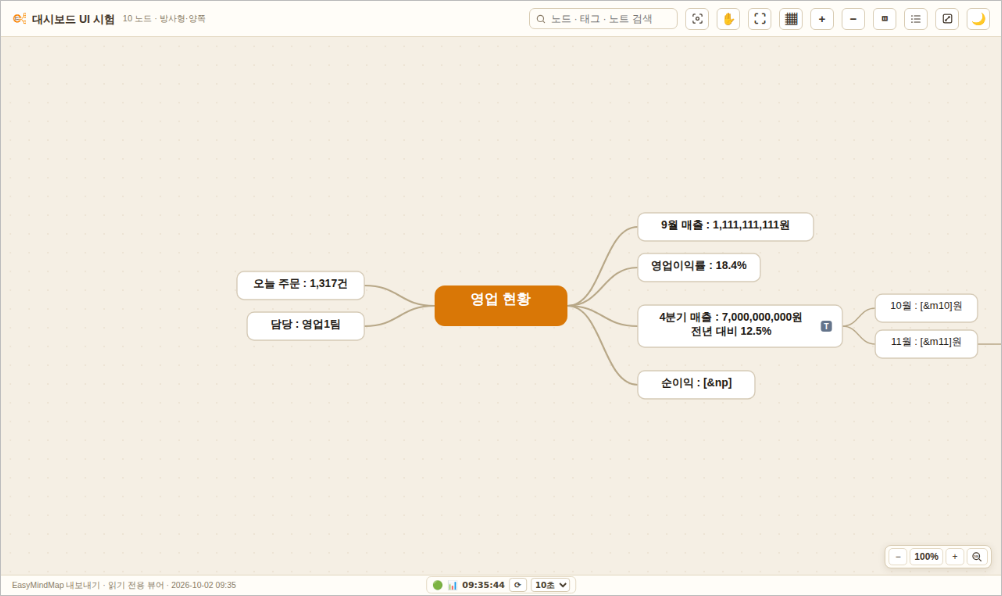
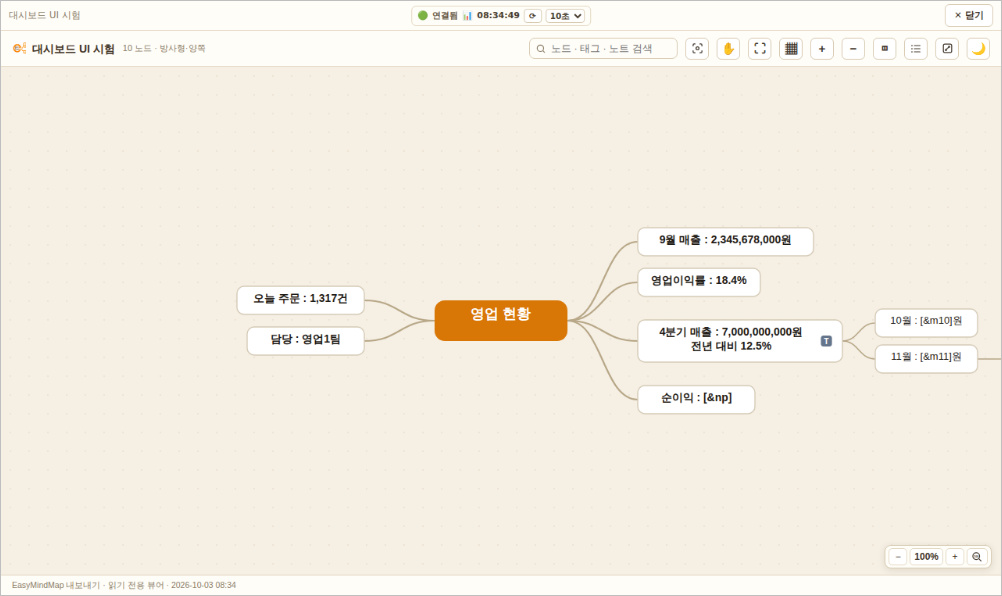
대시보드 공개 화면 — 새 탭은 제목 줄 가운데에 시각·연결 상태 (e2e331) (#615)
* 대시보드 공개 화면 — 새 탭(제목 줄 있음)은 제목 줄 가운데에 시각·연결 상태

- PublicMapPage: ViewerBar 가 있는 탭(isFreshTab)은 갱신 알약을 제목 줄 가운데에
  (data-placement=title) — 🟢 연결됨 · ⏳ 확인 중 · ⚠ 연결 끊김 글을 함께. 제목 줄이 없는
  화면(embed 등)은 그대로 바닥글 가운데. 알약은 한 화면에 하나.
- 22-dashboard v3.7 · 가이드 13 §7.

Claude-Session: https://claude.ai/code/session_01AoGXgGWrXHbWMncuBzWjkj

* docs: 가이드 13 새 탭 그림 · 카탈로그 e2e331 (292차)

Claude-Session: https://claude.ai/code/session_01AoGXgGWrXHbWMncuBzWjkj

---------

diff --git a/apps/frontend/src/pages/PublicMapPage.tsx b/apps/frontend/src/pages/PublicMapPage.tsx
@@ -18,7 +18,7 @@
 //   설령 그 글에서 무언가 새어 나가더라도 **우리 오리진에 닿지 못한다**
 //   (allow-same-origin 을 주지 않는다 — 이 한 줄이 격리의 전부다).
 
-import { useEffect, useMemo, useRef, useState, type CSSProperties } from 'react';
+import { useEffect, useMemo, useRef, useState, type CSSProperties, type ReactNode } from 'react';
 import type { LayoutType, SampleMap } from '@/editor/__samples__/types';
 import { buildStandaloneHtml } from '@/export/exportHtml';
 import { withInlinedImages, withInlinedAttachments } from '@/export/mapMeta';
@@ -253,21 +253,33 @@ export function PublicMapPage({ publishId }: { publishId: string }) {
     );
   }
 
+  // ★ 갱신 표시 자리 (2026-10-02 사용자 요청: "대시보드맵을 열었을 때처럼 **제목 줄 중앙**에 시간 및
+  //   연결 정보를") — 제목 줄(ViewerBar)이 있는 탭(새 탭에서 열기)은 그 가운데, 없는 화면(사내 페이지에
+  //   끼운 `?embed=1` 등)은 뷰어 바닥글 가운데. ViewerBar 와 같은 판정(`isFreshTab`)을 쓴다.
+  const titleBar = !embed && isFreshTab(window.history.length);
+  const dashPill = (placement: 'title' | 'footer') => (isDashboard && refreshedAt ? (
+    <DashboardBar
+      placement={placement}
+      now={now}
+      refreshedAt={refreshedAt}
+      changedAt={changedAt}
+      stale={stale}
+      checking={checking}
+      intervalSec={intervalSec}
+      onInterval={pickInterval}
+      onRefresh={() => checkNowRef.current()}
+    />
+  ) : null);
+
   return (
     <>
-      {!embed && <ViewerBar title={data.title} />}
-      {isDashboard && refreshedAt && (
-        <DashboardBar
-          now={now}
-          refreshedAt={refreshedAt}
-          changedAt={changedAt}
-          stale={stale}
-          checking={checking}
-          intervalSec={intervalSec}
-          onInterval={pickInterval}
-          onRefresh={() => checkNowRef.current()}
+      {!embed && (
+        <ViewerBar
+          title={data.title}
+          center={titleBar && dashPill('title')}
         />
       )}
+      {!titleBar && dashPill('footer')}
       {data.locked && (
         <PaidBanner
           publishId={publishId}
@@ -310,8 +322,10 @@ export function PublicMapPage({ publishId }: { publishId: string }) {
  * (`emm.dash.interval`)에 이 브라우저만 기억한다. 색은 바닥글과 같은 `#FFFDF8` / `#E4D9C3`.
  */
 function DashboardBar({
-  now, refreshedAt, changedAt, stale, checking, intervalSec, onInterval, onRefresh,
+  placement, now, refreshedAt, changedAt, stale, checking, intervalSec, onInterval, onRefresh,
 }: {
+  /** `title` — 제목 줄(ViewerBar) 가운데 · `footer` — 뷰어 바닥글 가운데 */
+  placement: 'title' | 'footer';
   now: Date; refreshedAt: Date; changedAt: Date | null; stale: boolean; checking: boolean;
   intervalSec: number; onInterval: (v: number) => void; onRefresh: () => void;
 }) {
@@ -332,16 +346,25 @@ function DashboardBar({
           ? `대시보드맵 — ${intervalLabel(intervalSec)}마다 시계 눈금에 맞춰 바뀐 것을 확인해 스스로 갱신합니다\n`
           : '자동 갱신이 꺼져 있습니다 — ⟳ 를 누를 때만 확인합니다\n')
         + `보이는 시각 = 지금 시각 · 마지막 확인 ${hhmmss(refreshedAt)} · 마지막 변경 ${changedAt ? hhmmss(changedAt) : '—'}`}
+      data-placement={placement}
       style={{
-        // 뷰어 바닥글(높이 26px) 한가운데 — 바닥글 위에 얹는다
-        position: 'fixed', left: '50%', bottom: 2, transform: 'translateX(-50%)', zIndex: 11,
-        display: 'inline-flex', alignItems: 'center', gap: 5, height: 22, padding: '0 7px',
+        // 바닥글이면 뷰어 바닥글(높이 26px) 한가운데에 얹는다 · 제목 줄이면 ViewerBar 가 가운데에 둔다
+        ...(placement === 'footer'
+          ? { position: 'fixed', left: '50%', bottom: 2, transform: 'translateX(-50%)', zIndex: 11 } as const
+          : {}),
+        display: 'inline-flex', alignItems: 'center', gap: 5, height: placement === 'title' ? 26 : 22, padding: '0 7px',
         boxSizing: 'border-box', borderRadius: 6, whiteSpace: 'nowrap',
         background: '#FFFDF8', border: '1px solid #E4D9C3', color: '#4A3F30',
         fontFamily: 'system-ui, -apple-system, "Segoe UI", sans-serif', fontSize: 11, fontWeight: 600,
       }}
     >
       <span data-testid="public-dashboard-health" aria-hidden>{warn ? '⚠' : checking ? '⏳' : '🟢'}</span>
+      {/* 제목 줄에서는 연결 상태를 글로도 — 에디터의 🟢 와 같은 뜻 (2026-10-02 "시간 및 연결 등 정보") */}
+      {placement === 'title' && (
+        <span data-testid="public-dashboard-status" style={{ color: warn ? '#B45309' : '#6B5E4A' }}>
+          {warn ? '연결 끊김' : checking ? '확인 중' : '연결됨'}
+        </span>
+      )}
       <span aria-hidden>📊</span>
       <span data-testid="public-dashboard-clock" style={{ fontVariantNumeric: 'tabular-nums' }}>{hhmmss(now)}</span>
       <button data-testid="public-dashboard-refresh" style={small} title="지금 다시 받기" onClick={onRefresh}>⟳</button>
@@ -375,7 +398,7 @@ const PAID_H = 86;
  * ★ 색은 뷰어 머리말(`exportHtml` 의 `<header>`)과 같은 `#FFFDF8` /
  *   `#E4D9C3` 다 — 두 줄이 **한 덩어리**로 읽히게.
  */
-function ViewerBar({ title }: { title: string }) {
+function ViewerBar({ title, center }: { title: string; center?: ReactNode }) {
   const [back] = useState(() => libraryBackHref(document.referrer, window.location.origin));
   const [fresh] = useState(() => isFreshTab(window.history.length));
 
@@ -423,8 +446,16 @@ function ViewerBar({ title }: { title: string }) {
         style={{
           flex: 1, minWidth: 0, fontSize: 12, color: '#8B7D68',
           overflow: 'hidden', textOverflow: 'ellipsis', whiteSpace: 'nowrap',
+          // 가운데 알약(대시보드 갱신 표시)과 겹치지 않게 — 왼쪽 반에서만
+          ...(center ? { maxWidth: 'calc(50% - 190px)' } : {}),
         }}
       >{title}</span>
+      {center && (
+        <div style={{ position: 'absolute', left: '50%', top: '50%', transform: 'translate(-50%, -50%)' }}>
+          {center}
+        </div>
+      )}
+      {center && <span style={{ flex: 1 }} />}
       <button data-testid="viewer-close" type="button" onClick={closeTab} style={barBtn}>
         ✕ 닫기
       </button>

diff --git a/docs/05-implementation/test-catalog.md b/docs/05-implementation/test-catalog.md
@@ -145,6 +145,7 @@
 | e2e294 | **유료 맵은 pro 없이도 새지 않는다 — 서버가 자르고, 검색도 2레벨까지만** (2026-09-21, 27b §10 2단계. 사용자가 법·세무 확인과 PG 계약이 끝났다고 알린 뒤 시작) | 구성: 진짜 PostgreSQL 16 + **진짜로 빌드한 API**(:3010) + 진짜 HTTP(비인증 = 손님의 눈). 판정은 "무엇이 남았나" 가 아니라 **"응답 어디에도 그 글자가 없다"** 다 — 깊이 4에 노트·첨부·링크를 층층이 심은 맵으로 센다. **48항목 PASS**. ① 무료일 때는 4레벨·노트까지 전부 온다(기준선) ② 값 매기기 — 하한 1,000원 미만·상한 100,000원 초과·소수점·비숫자 **네 가지 거절**, 매기면 `visibility` 가 함께 `paid` 로, 지식창고에서 내려가지 않는다 ③ ★★ **유료 맵도 열리되 잘려 온다** — 중심·1레벨은 보이고 3·4레벨 없음, **2레벨 노드의 노트 없음**(가장 틀리기 쉬운 자리), 중심 노트·링크 이름·첨부 이름·코드 노트 전부 없음, `stats` 는 자르기 **전**(6노드·깊이 4·첨부 1·노트 3·가려진 3) ④ `og.html` 로도 안 샌다(같은 판정을 쓰는 둘째 길) ⑤ ★★ **스무고개가 안 통한다** — 3레벨 낱말·노트 낱말로는 그 맵이 검색에 안 잡히고, **2레벨(목차) 낱말로는 잡힌다**(발견 자체는 된다). 카드에 값이 실리고 건수도 2레벨 색인으로 센다 ⑥ 값 없이 `visibility='paid'` 로 바꾸는 길은 400 으로 막힌다(값 없는 유료 맵을 못 만든다) ⑦ 지식창고 토글이 값을 내리지 않는다(회귀 — `!== 'public'` 이면 값이 조용히 내려갔다) ⑧ 값을 내리면 4레벨·노트·검색이 **전부 돌아온다** ⑨ `/v1/features` 에 `map-sales` 가 꺼진 채 이유와 함께 있다. **되돌려 깨뜨리기 두 번** — 자르기를 빼면 ③⑦ 이 **14건 FAIL**(전문이 그대로 나간다), 색인 경계를 빼면 ⑤ 가 **3건 FAIL**(3레벨 낱말로 맵이 잡힌다). 단위 `trim-for-preview.test.mjs` **37항목**(★ 목록에 없는 새 칸은 나가지 않는다 · 여러 중심주제 · 깊이를 늘려도 노트는 안 나간다 · 깨진 문서는 빈 미리보기). DB: 델타를 **돌고 있는 DB 에 적용**해 확인하고, 빈 DB 에 `schema.sql` 을 부어 **네 객체가 같게 생기는지**(칼럼·함수·인덱스·제약) 대조했다. ★ **설계에서 바꾼 것 둘** — ⑴ 색인 경계를 '유료로 바꿀 때 다시 만든다'(절차)가 아니라 **트리거가 두 색인을 늘 함께** 만드는 쪽으로(절차가 한 번 빠지면 전문인 채로 남고 아무도 모른다) ⑵ 402 스텁 대신 **`/v1/features`** 로(코어에 유료 경로를 뚫지 않는다 — open-core-boundary §4.1). ★ **함정** — 실측 DB 에 `{map:{text,children}}` 모양의 옛/시험 문서가 있었다. `root`·`branches` 가 없어 `preview_text` 가 NULL 이 되는데, **그 경우 내용 검색에서 빠지는 쪽(fail-closed)이라 새지는 않는다** | 27b §5 · api-spec `/published` · 27b §0.2 |
 | e2e312 | **`+` 메뉴 ▸ 여러 노드 추가…** (2026-09-28 사용자 보고: "`Ctrl+Space` 가 다른 소프트웨어에 할당되어 다중 노드 추가가 작동이 안 된다 — 노드 추가 하위 메뉴에 넣어 달라") | `guide03-calendar.mjs` ② 에 3항목 추가: 메뉴에 `여러 노드 추가…` 가 있다 · 누르면 `multi-add-dialog` 가 뜬다(Esc 로 닫힘). `03-add-menu.png` 재촬영 — **55항목 PASS** | 10-canvas §21.2 · user-guide 03·09 |
 | e2e330 | **미니맵 — 맵 밖으로는 못 간다** (2026-10-02 사용자 요청: 첫 화면 보고의 뒤끝 — 변경 이력으로 "미니맵 사각형 끌기"가 원인으로 확정된 뒤 "미니맵 바깥 빈 영역은 못 가게 가둬줘") | `minimapMath.clampCenterToBounds(wx, wy, bounds, view)`: 화면 사각형이 노드 경계 밖으로 나가지 않게 중심점을 축마다 자른다(맵이 화면보다 작은 축은 가운데). `Minimap.centerAt`(클릭·끌기)과 HTML 뷰어 `minimapCenterAt` 이 쓴다. 단위 `minimapMath.test.ts` ⑨ **5항목**(안쪽 그대로 · 위 빈 공간 → 위 변 · 밖 → 모서리 · 작은 축 가운데 · 경계 없음) · 브라우저 `guide04-large-map.mjs` ⑨(2,441노드 맵, 미니맵 왼쪽 위 빈 구석 클릭 → 화면 왼쪽 위가 맵 경계에 붙고 중심 주제가 화면 안) · `guide08-viewer-home-minimap.mjs` ③-b(뷰어 같은 규칙). **보강 2026-10-03** (사용자: "가둠은 됐는데 미니맵 위쪽 여백이 너무 많다") — `paddedBounds` 여백이 각 변 12% 라 4만 px 맵은 위 여백만 5,000px(창 ≈4,600px 보다 큼). 상한 `MINIMAP_PAD_MAX`=300 을 둬 큰 맵에서는 창이 맵 위 여백에 붙는다. 단위 ① 상한 1 · ⑥⑦ 기대값을 여백 상한 기준으로 갱신(전부 통과) · 브라우저 미니맵 35 · 큰 맵 15 | user-guide 04 미니맵 · e2e291 |
+| e2e331 | **대시보드 공개 화면 — 새 탭은 제목 줄 가운데에 시각·연결 상태** (2026-10-02 사용자 요청: "새 탭에서 열기 하면 시간 표시·연결 아이콘이 사라졌다 — 대시보드맵을 열었을 때처럼 제목 줄 중앙에 시간 및 연결 등 정보를" — #615, 22-dashboard.md v3.7) | **코어**: `PublicMapPage` — 제목 줄(ViewerBar, `isFreshTab`)이 있는 탭은 갱신 알약을 그 가운데에(`data-placement=title`), 상태 글 `🟢 연결됨 · ⏳ 확인 중 · ⚠ 연결 끊김` 함께. 제목 줄이 없는 화면(embed 등)은 바닥글 가운데 그대로. 알약은 한 화면에 하나. 🔌 연결 카드는 주인 도구라 링크 화면에 두지 않음. **검증은 유료 저장소 PR 검사**: 퍼블리싱 창 [새 탭에서 열기]를 실제로 눌러 popup — 제목 줄 있음 · 알약 가운데(가로·세로 ±3px) · 상태 글 · 알약 1개 · 시각이 흐름. 붙인 화면·제목 줄 없는 탭은 바닥글 가운데 그대로 — **UI 56 PASS** · HTTP 110 PASS. 가이드 그림 `13-dashboard-newtab.png` 다시 찍음 | 22-dashboard §4.7 · 가이드 13 §7 |
 | e2e327 | **첫 화면 보호(렌더 단계) + 진단 훅** (2026-10-01 사용자 보고: Ctrl+F5 뒤에도 중심 주제가 화면 아래 ~820px — 스크린샷 미니맵으로 pan +668 상당) | **재현 시도** 프로덕션 빌드(`vite preview`)에서 사용자 HTML 의 원본 맵을 `?map=` 로 열며 창 2000×975 · DPR 1.25 · 로딩 중 미니맵 켬 · 2.5초 느린 응답 — 셋 다 72px. **고침** 원인과 무관하게 맞도록: 문서를 연 뒤 사용자가 아무 조작도 하기 전(document `pointerdown`·`wheel`·`keydown`, `homeSeq` 바뀌면 초기화)에는 캔버스가 **렌더 단계에서 첫 화면 pan** 을 쓴다(`homeGuard`; `storePanX/Y` 와 실효 `panX/Y` 를 가름). `refreshFromServer` 의 `keepView` 는 `homeArmed:false` 로 넣어 의도한 뷰를 지킨다. 진단 훅 `window.__emm.viewport()`(스토어·실효 pan·캔버스·루트·rootScreenTop·노드 수). **검증** `guide04-home-view.mjs` ⑨ 조작 전 스토어 pan +668 → 화면 72px ⑩ 포인터 조작 뒤 스토어 +300 → 따른다(471) ⑪ `homeArmed:false` 뷰는 보호 안 함 ⑫ 훅 출력 ⑬ 변경 이력 `__emm.viewportLog()`(reset·setHomePan·gesture·스택) — **13항목 PASS** · 회귀 `guide04-large-map` 14 · `guide03-connector` 58 · tsc·unit·build. **사용자 측정(2026-10-02)**: 새로고침 뒤 클릭 없이 `rootScreenTop 72 · homeGuard true · pan (0,−98)` — 열자마자는 맞다; 앞선 어긋남은 조작 뒤의 코드 계산 pan | 10-canvas "첫 화면 보호" · e2e316 |
 | e2e323 | **MD 왕복 레이아웃·노트 복원 + HTML 뷰어 첫 화면·미니맵** (2026-09-30 사용자 보고: "내보냈다 불러오면 레이아웃이 틀리다", "노트를 '노드로' 옵션 없이 원래대로", "HTML 도 원래 레이아웃이 아니다 · HTML 에 미니맵") | **원인** ① `declareFromMap` 이 `settings.levelLayouts` 만 봐서 `import_github_docs` 처럼 노드 `layoutType` 에만 있는 레이아웃(진행트리 안의 트리 열)이 `levels:` 에 안 나가 되읽은 맵이 전부 진행트리가 됐다 ② 노트가 블록으로 나가는데 되읽기는 앱 옵션(노드로)을 따라 코드·표가 자식 노드가 됐다(2,847 → 4,629노드) ③ 뷰어는 열 때 2% 전체 맞추기라 12개 열이 실처럼 보였다. **고침** ① `deriveLevelLayouts(branches)`: 깊이별 자식 있는 노드의 layoutType 이 전부 같으면 그 깊이의 레이아웃으로(설정이 있으면 설정 우선) ② 선언 키 `blocks: note`(내보내기가 적음) → `parseMarkdownMapFile` 이 옵션과 상관없이 노트 배치 + `adjacentQuoteIsBody`(견출에 붙은 `>` = 본문 줄, 빈 줄 뒤 `>` = 노트; 내보내기가 여러 줄 노드의 나머지 줄을 붙여 쓰도록 `pushBodyBlocks` 변경) · 안내에 "노트는 원래대로 복원했습니다" ③ 뷰어 `home()`(100% · 트리는 위 72px/왼쪽 40px · 방사형은 가운데) + 미니맵(▦ 단추, 노드 사각형·화면 사각형·클릭·끌기·localStorage). **검증** 파서 `test/blocks-note.test.ts` **14** · 프런트 `emmDeclaration.test.ts` ⑤ **6** · `importMapFile.test.ts` ⑤ **9**(①② 기대값 갱신) · 브라우저 `guide08-viewer-home-minimap.mjs` **9** · **사용자 실제 맵**(HTML 내보내기의 2,847노드) 을 MD 로 내보냈다 옵션 "노드로" 로 되읽음: 노드 2,847 · 노트 7,411 · 깊이 1·2 tree-right 그대로(3+ 는 상속과 같은 tree-right) · restoredNotes. 회귀: 적합성 15/15 · 파서 단위 260 · API `test:mcp` · `check:emm` · 프런트 tsc·unit·build · `guide03-connector`·`guide05-note-multi`·`guide01-browser-refresh`. **알려진 한계** 노트 안 줄 끝 두 칸 공백·표 빈 마지막 칸은 되읽으며 정리돼 두 번째 내보내기 글자만 다르다 | emm-spec §3.7 · markdown-export §1.10·§2 · 20-export 뷰어 절 · user-guide 08 |
 | e2e322 | **큰 맵 — 뷰포트 컬링 · NodeRenderer memo · "여는 중" 안내** (2026-09-30 사용자 보고: "2,847노드 맵을 불러온 뒤 한참 편집이 안 된다", "불러오는 동안 안내가 없다") | **계측**(임시 렌더 카운터 + 긴 작업 타임라인, 프로덕션 빌드, 4,629노드 MD): 불러오기 24초 — Canvas 렌더 5회 중 하나가 13~18초, computeLayout 2회, NodeRenderer 13,887회; 다 열린 뒤 **클릭 1,716ms**(노드 렌더는 2개뿐 — SVG 2만 요소의 브라우저 레이아웃). **고침** — ① 400노드 이상이면 화면(+절반 여백)에 걸리는 노드·엣지·접힘 칩만 DOM 에(선택·편집·검색·드롭·다중 선택 노드는 예외) ② `NodeRenderer` memo + 안정된 `onSelect(id)`/`onOpenPopover` + 빈 다중선택 같은 참조 ③ 엣지 부모 찾기·접힘 칩 자식 평균의 O(n²) 제거, `buildKanbanFromMap` memo ④ `openingLabel` 오버레이(`withOpening`·`afterPaint`) — 불러오기·서버 열기. **결과**(같은 계측): 불러오기 **1.7초** · 클릭 **17ms** · NodeRenderer 12회. 브라우저 `guide04-large-map.mjs`(vite + 크로미움) ① 2,441노드 진행트리를 열면 DOM 19개 ② 먼 노드 센터 → 그 노드 DOM 에, 중심 주제는 빠짐 ③ 화면 밖 노드 선택 → 그려짐 ④ 맞추기(2%) — 화면(+여백)에 든 1,164개 빠짐없이 ⑤ 원위치 → 다시 일부 · 중심 주제 72px ⑥ 선택 18ms ⑦ 30노드 맵은 전부 ⑧ 781노드 MD 불러오기 — 오버레이 [true,false] · 문구에 노드 수 · 끝나면 없음 — **14항목 PASS**. 회귀: `guide04-home-view` 8 · `guide03-connector` 58 · `guide04-layout-nested` 17 · `guide03-calendar` 55 전부 통과 · 프런트 `tsc -b`·unit·build | 10-canvas "큰 맵" 절 · user-guide 04 |
@@ -491,6 +492,9 @@
 > 겹쳐 보이지만 날짜와 함께 읽으면 유일하다. **고치지 말 것** — 그때의
 > 기록을 지금 규칙으로 고쳐 쓰면 없던 역사를 만드는 셈이다.
 
+- 2026-10-03 (292차): **e2e331 — 새 탭 제목 줄 가운데에 시각·연결 상태**(사용자 요청, #615). [새 탭에서 열기]
+  화면은 `대시보드맵1 … ✕ 닫기` 줄 가운데에 `🟢 연결됨 📊 시각 ⟳ 10초`. 끼운 화면은 바닥글 가운데 그대로.
+  유료 PR 검사 UI 56 · HTTP 110 PASS.
 - 2026-10-03 (291차): **e2e330 보강 — 미니맵 여백 상한 300px**. 긴 맵에서 창 위쪽이 여백만
   보이던 것(12% = 5,000px). 단위 전부 통과 · 브라우저 35+15.
 - 2026-10-02 (290차): **e2e330 — 미니맵, 맵 밖으로는 못 간다**. 첫 화면 보고는 변경 이력으로

diff --git a/docs/04-extensions/dashboard/22-dashboard.md b/docs/04-extensions/dashboard/22-dashboard.md
@@ -1,6 +1,6 @@
 # 22. 대시보드맵 (DASHBOARD) — v3 설계안
 
-* 문서 버전: **v3.6 — 대시보드 퍼블리싱 창 단순화 · 공개 화면 갱신 표시는 바닥글 가운데 · 문서함 대시보드 구역 · 노드를 내용째 추가** (2026-10-01 — v3.1: 형제 노드 앞·뒤 추가 · v3.2: 구현하며 정한 것 반영, 부록 C · v3.3: 링크 퍼블리싱 허용 §4.7 · v3.4: 문서함 `📊 대시보드` 구역 §4.2, `add` 에 노트·하위·변수 값 §7 · v3.5: 연결 주소 줄을 빼고 공개 화면 갱신 표시를 위쪽 막대로 §4.2 · §4.7 · v3.6: 퍼블리싱 창에서 보관·취소 단추를 빼고, 갱신 표시를 바닥글 줄 가운데로 §4.7)
+* 문서 버전: **v3.7 — 새 탭은 제목 줄 가운데에 갱신 표시 · 대시보드 퍼블리싱 창 단순화 · 문서함 대시보드 구역 · 노드를 내용째 추가** (2026-10-01 — v3.1: 형제 노드 앞·뒤 추가 · v3.2: 구현하며 정한 것 반영, 부록 C · v3.3: 링크 퍼블리싱 허용 §4.7 · v3.4: 문서함 `📊 대시보드` 구역 §4.2, `add` 에 노트·하위·변수 값 §7 · v3.5: 연결 주소 줄을 빼고 공개 화면 갱신 표시를 위쪽 막대로 §4.2 · §4.7 · v3.6: 퍼블리싱 창에서 보관·취소 단추를 빼고, 갱신 표시를 바닥글 줄 가운데로 §4.7 · v3.7: 제목 줄이 있는 새 탭은 그 가운데로 §4.7)
 * 이력: v1.0 (2026-04-16, `nodes` 표 전제 — 폐기) → v2.0 (2026-09-29, 값을 노드 **밖** 칩으로 —
   사용자 정정으로 폐기) → **v3.0 (노드 내용 자체를 바꾼다)**. 부록 B.
 * 상태: **승인됨**(2026-09-30 "이대로 진행"). 1단계 구현 — 코어 okpojung/easymindmap#594 (규칙·자리),
@@ -308,6 +308,14 @@
 (`public-dashboard-live`). 새 탭에서는 위에 돌아가기 막대·대시보드 막대·뷰어 머리말 세 줄이 쌓였다 — 바닥글은
 왼쪽 글만 있어 가운데가 비고, 줄을 새로 만들지 않아 맵 영역이 줄지 않는다. 붙인 화면(`?embed=1`)도 같다.
 알약은 에디터 도구줄과 같은 순서·기호: `🟢 📊 14:32:05  ⟳  [10초▾]`.
+
+**(v3.7, 2026-10-02 사용자 요청)** *"새 탭에서 열기 하면 시간 표시·연결 아이콘이 사라졌다 — 대시보드맵을 열었을
+때처럼 제목 줄 중앙에 시간 및 연결 등 정보를"* — **제목 줄(ViewerBar, `← 지식창고 · 제목 · ✕ 닫기`)이 있는 탭**
+(퍼블리싱 창의 [새 탭에서 열기]처럼 기록이 한 장인 탭, `isFreshTab`)에서는 알약을 **그 줄 가운데**에 둔다
+(`data-placement="title"`). 연결 상태를 글로도 보인다: `🟢 연결됨 · ⏳ 확인 중 · ⚠ 연결 끊김`. 제목 줄이 없는
+화면(사내 페이지에 끼운 `?embed=1`, 뒤로 갈 곳이 있는 탭)은 그대로 바닥글 가운데(`data-placement="footer"`).
+한 화면에 알약은 하나다. 에디터 도구줄의 **🔌 연결**(맵 ID·변수·넣는 명령·열쇠 카드)은 맵 주인의 편집 도구라
+로그인 없는 링크 화면에는 두지 않는다.
 - 시각은 **지금 시각**(매초). 🟢 정상 · ⏳ 확인 중 · ⚠ 서버에 닿지 못함 또는 확인이 멈춤(간격의 2배 + 5초).
 - ⟳ — 표식과 상관없이 지금 다시 받는다. 간격 — 끔·10초·30초·1분·5분, 에디터와 **같은 칸**
   (`localStorage emm.dash.interval`)에 이 브라우저만 기억. 끔이면 스스로 묻지 않는다.

diff --git a/docs/user-guide/13-대시보드맵.md b/docs/user-guide/13-대시보드맵.md
@@ -321,10 +321,13 @@ ON CONFLICT (map_id, name) DO UPDATE SET value = EXCLUDED.value;
 
 <img src="assets/13-dashboard-embed.png" width="720" alt="사내 포털 페이지 안에 iframe 으로 끼운 대시보드맵 — 값이 채워진 노드, 맨 아래 바닥글 줄 가운데에 🟢 📊 지금 시각 · ⟳ · 10초">
 
-<img src="assets/13-dashboard-newtab.png" width="720" alt="퍼블리싱 창의 [새 탭에서 열기]로 연 대시보드 — 맨 아래 줄 가운데에 🟢 📊 지금 시각 · ⟳ · 10초">
+<img src="assets/13-dashboard-newtab.png" width="720" alt="퍼블리싱 창의 [새 탭에서 열기]로 연 대시보드 — 맨 위 제목 줄 가운데에 🟢 연결됨 📊 지금 시각 · ⟳ · 10초">
 
-- 붙인 화면(그리고 **새 탭에서 열기** 한 화면)의 **맨 아래 줄 가운데**에 대시보드맵을 열었을 때와 같은 표시가
-  있습니다: `🟢 📊 14:32:27  ⟳  [10초▾]`.
+- 대시보드맵을 열었을 때와 같은 표시 `🟢 📊 14:32:27  ⟳  [10초▾]` 가 있습니다.
+  - **새 탭에서 열기** 한 화면: 맨 위 **제목 줄 가운데**(`대시보드맵1 … ✕ 닫기` 줄). 연결 상태가 글로도
+    보입니다 — `🟢 연결됨` · `⏳ 확인 중` · `⚠ 연결 끊김`.
+  - 사내 페이지에 끼운 화면(제목 줄이 없는 화면): **맨 아래 줄 가운데**.
+  - 편집 화면의 **🔌 연결**(맵 ID·열쇠·명령 카드)은 맵 주인의 도구라 링크 화면에는 없습니다.
   - 시각은 **지금 시각**(매초)입니다. 🟢 정상 · ⏳ 확인 중 · ⚠ 서버에 닿지 못하거나 확인이 멈춤 —
     ⚠ 일 때는 마지막으로 받은 값을 그대로 보여 줍니다.
   - **⟳** 는 지금 바로 다시 받습니다. **[10초▾]** 로 간격을 고릅니다(끔·10초·30초·1분·5분) — 이
